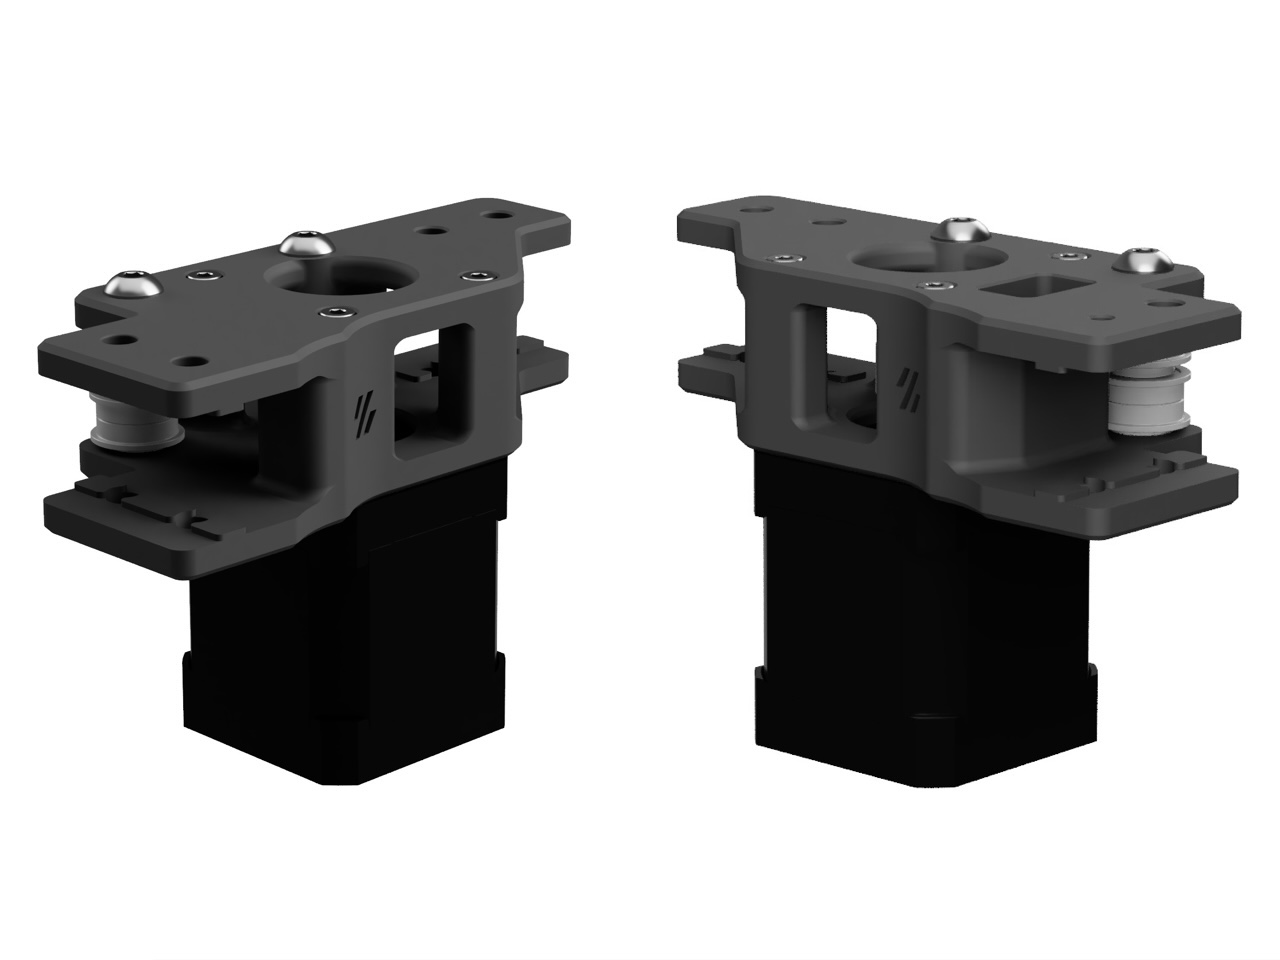
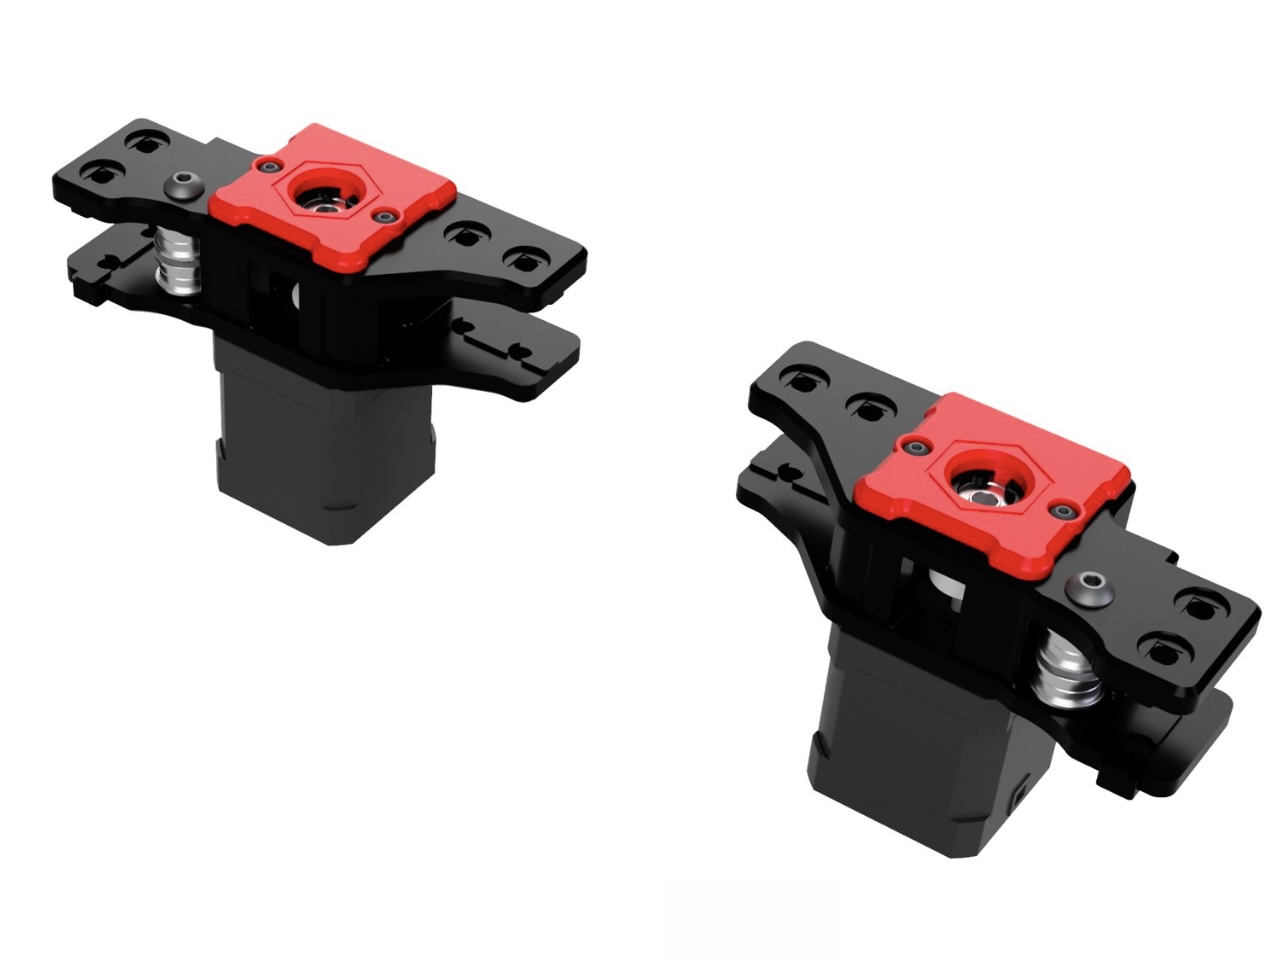
Switch to Trident Gantry

diff --git a/_posts/printer-voron-1.8.md b/_posts/printer-voron-1.8.md
@@ -2,7 +2,7 @@
 title: Voron 1.8
 heading: Building my first Voron printer
 date: 2022-02-17
-lastmod: 2026-06-14T17:59:41.100Z
+lastmod: 2026-06-16T21:25:51.914Z
 author: Mike Thomas
 description: The steps I have taken to print and source parts to assemble a Voron 1.8 3D printer.
 preview: /assets/blog/printer-voron-1.8/voron-hero.jpg
@@ -247,19 +247,26 @@ All printed parts will be printed in eSun ABS+. The Voron team recommends an inf
 
 Some of the gantry parts (specifically the AB Drive Units and Front Idlers) will be replaced with the upgraded versions from the Trident as they should fit the 1.8.
 
-### :white_check_mark: AB Drive Units
+### :wrench: A/B Drive Units
 
-![3D render of the Voron 1.8 AB Drive Units](/assets/blog/printer-voron-1.8/voron-design/ab-drive.jpg 'AB Drive Units')
+![3D render of the Voron Trident r2 A/B Drive Units](/assets/blog/printer-voron-1.8/voron-design/ab-drive.jpg 'A/B Drive Units')
 
-> Image © 2020 [Voron Design](https://www.vorondesign.com)
+> Image © 2026 [Voron Design](https://www.vorondesign.com)
 
-| Item                                                                                                                             | Quantity | Material                      | Size  | Weight | Cost  |      Printed       | Notes                     |
-| -------------------------------------------------------------------------------------------------------------------------------- | -------- | ----------------------------- | ----- | ------ | ----- | :----------------: | ------------------------- |
-| [wire_cover](https://github.com/VoronDesign/Voron-Trident/blob/VTr1/STLs/Gantry/AB_Drive_Units/%5Ba%5D_wire_cover.stl)           | 1        | [eSun ABS+ (Fire Engine Red)] | 1.30m | 3.31g  | £0.06 | :heavy_check_mark: | This is a Trident Part    |
-| [a_drive_frame_lower](https://github.com/VoronDesign/Voron-Trident/blob/VTr1/STLs/Gantry/AB_Drive_Units/a_drive_frame_lower.stl) | 1        | [eSun ABS+ (Black)]           | 8.58m | 21.86g | £0.42 | :heavy_check_mark: | This is a Trident Part    |
-| [a_drive_frame_upper](https://github.com/VoronDesign/Voron-Trident/blob/VTr1/STLs/Gantry/AB_Drive_Units/a_drive_frame_upper.stl) | 1        | [eSun ABS+ (Black)]           | 8.21m | 20.93g | £0.40 | :heavy_check_mark: | This is a Trident r1 Part |
-| [b_drive_frame_lower](https://github.com/VoronDesign/Voron-Trident/blob/VTr1/STLs/Gantry/AB_Drive_Units/b_drive_frame_lower.stl) | 1        | [eSun ABS+ (Black)]           | 7.93m | 20.21g | £0.38 | :heavy_check_mark: | This is a Trident Part    |
-| [b_drive_frame_upper](https://github.com/VoronDesign/Voron-Trident/blob/VTr1/STLs/Gantry/AB_Drive_Units/b_drive_frame_upper.stl) | 1        | [eSun ABS+ (Black)]           | 8.18m | 20.85g | £0.40 | :heavy_check_mark: | This is a Trident r1 Part |
+| Item                                                                                                                               | Quantity | Material                      | Size  | Weight | Cost  |      Printed       | Notes                                                                    |
+| ---------------------------------------------------------------------------------------------------------------------------------- | -------- | ----------------------------- | ----- | ------ | ----- | :----------------: | ------------------------------------------------------------------------ |
+| ~[a_drive_frame_lower](https://github.com/VoronDesign/Voron-Trident/blob/VTr1/STLs/Gantry/AB_Drive_Units/a_drive_frame_lower.stl)~ | ~1~      | [eSun ABS+ (Black)]           | 8.58m | 21.86g | £0.42 | :heavy_check_mark: | This is a Trident Part                                                   |
+| ~[a_drive_frame_upper](https://github.com/VoronDesign/Voron-Trident/blob/VTr1/STLs/Gantry/AB_Drive_Units/a_drive_frame_upper.stl)~ | ~1~      | [eSun ABS+ (Black)]           | 8.21m | 20.93g | £0.40 | :heavy_check_mark: | This is a Trident r1 Part                                                |
+| [a_stepper_lower](https://github.com/VoronDesign/Voron-Trident/blob/main/STLs/Gantry/ba_drive_units/a_stepper_lower.stl)           | 1        | [eSun ABS+ (Black)]           |       |        |       |        :x:         | This is a Trident r2 Part                                                |
+| [a_stepper_upper](https://github.com/VoronDesign/Voron-Trident/blob/main/STLs/Gantry/ba_drive_units/a_stepper_upper.stl)           | 1        | [eSun ABS+ (Black)]           |       |        |       |        :x:         | This is a Trident r2 Part                                                |
+| ~[b_drive_frame_lower](https://github.com/VoronDesign/Voron-Trident/blob/VTr1/STLs/Gantry/AB_Drive_Units/b_drive_frame_lower.stl)~ | ~1~      | [eSun ABS+ (Black)]           | 7.93m | 20.21g | £0.38 | :heavy_check_mark: | This is a Trident Part                                                   |
+| ~[b_drive_frame_upper](https://github.com/VoronDesign/Voron-Trident/blob/VTr1/STLs/Gantry/AB_Drive_Units/b_drive_frame_upper.stl)~ | ~1~      | [eSun ABS+ (Black)]           | 8.18m | 20.85g | £0.40 | :heavy_check_mark: | This is a Trident r1 Part                                                |
+| [b_stepper_lower](https://github.com/VoronDesign/Voron-Trident/blob/main/STLs/Gantry/ba_drive_units/b_stepper_lower.stl)           | 1        | [eSun ABS+ (Black)]           |       |        |       |        :x:         | This is a Trident r2 Part                                                |
+| [b_stepper_upper](https://github.com/VoronDesign/Voron-Trident/blob/main/STLs/Gantry/ba_drive_units/b_stepper_upper.stl)           | 1        | [eSun ABS+ (Black)]           |       |        |       |        :x:         | This is a Trident r2 Part                                                |
+| ~[circlip](https://github.com/VoronDesign/Voron-Trident/blob/main/STLs/Gantry/ba_drive_units/circlip_x2.stl)~                      | ~2~      | [eSun ABS+ (Black)]           |       |        |       |        :x:         | This is a Trident r2 Part, Not required, for Double Shear Shaft Supports |
+| ~[cover_bearing](https://github.com/VoronDesign/Voron-Trident/blob/main/STLs/Gantry/ba_drive_units/%5Ba%5D_cover_bearing_x2.stl)~  | ~2~      | [eSun ABS+ (Fire Engine Red)] |       |        |       |        :x:         | This is a Trident r2 Part, Not required, for Double Shear Shaft Supports |
+| [cover_logo](https://github.com/VoronDesign/Voron-Trident/blob/main/STLs/Gantry/ba_drive_units/%5Ba%5D_cover_logo_x2.stl)          | 2        | [eSun ABS+ (Fire Engine Red)] |       |        |       |        :x:         | This is a Trident r2 Part                                                |
+| ~[wire_cover](https://github.com/VoronDesign/Voron-Trident/blob/VTr1/STLs/Gantry/AB_Drive_Units/%5Ba%5D_wire_cover.stl)~           | ~1~      | [eSun ABS+ (Fire Engine Red)] | 1.30m | 3.31g  | £0.06 | :heavy_check_mark: | This is a Trident Part                                                   |
 
 ![An A Drive Unit printed in ABS with different settings](/assets/blog/printer-voron-1.8/a-drive-abs-tuning.jpg 'A Drive ABS Tuning')
 
@@ -271,32 +278,36 @@ The lower A drive was the first time I have tried to print with ABS. The upper w
 
 ##### Parts Used
 
-| Item                          | Quantity |
-| ----------------------------- | -------- |
-| F695 Bearing                  | 12       |
-| GT2 20T Pulley (5mm ID 6mm W) | 2        |
-| M3 Threaded Insert            | 1        |
-| M3x10 SHCS                    | 1        |
-| M3x30 SHCS                    | 6        |
-| M5 1mm Spacer                 | 12       |
-| M5x30 BHCS                    | 4        |
-| NEMA17 Motor 17HS19-2004S     | 2        |
+| Item                            | Quantity |
+| ------------------------------- | -------- |
+| ~F695 Bearing~                  | ~12~     |
+| ~GT2 20T Pulley (5mm ID 6mm W)~ | ~2~      |
+| ~M3 Threaded Insert~            | ~1~      |
+| ~M3x10 SHCS~                    | ~1~      |
+| ~M3x30 SHCS~                    | ~6~      |
+| ~M5 1mm Spacer~                 | ~12~     |
+| ~M5x30 BHCS~                    | ~4~      |
+| ~NEMA17 Motor 17HS19-2004S~     | ~2~      |
 
 > [!NOTE]
 > I will upgrade these motors to [LDO Speedy Power Motors](https://www.onetwo3d.co.uk/product/ldo-stepper-motor-42sth48-2504ac) for both A and B Drives.
 
-### :white_check_mark: Front Idlers
+### :wrench: Front Idlers
 
-![3D render of the Voron 1.8 Front Idlers](/assets/blog/printer-voron-1.8/voron-design/front-idlers.jpg 'Front Idlers')
+![3D render of the Voron Trident r2 Front Idlers](/assets/blog/printer-voron-1.8/voron-design/front-idlers.jpg 'Front Idlers')
 
-> Image © 2020 [Voron Design](https://www.vorondesign.com)
+> Image © 2026 [Voron Design](https://www.vorondesign.com)
 
-| Item                                                                                                                           | Quantity | Material                      | Size  | Weight | Cost  |      Printed       | Notes                     |
-| ------------------------------------------------------------------------------------------------------------------------------ | -------- | ----------------------------- | ----- | ------ | ----- | :----------------: | ------------------------- |
-| [tensioner_left](https://github.com/VoronDesign/Voron-Trident/blob/VTr1/STLs/Gantry/Front_Idlers/%5Ba%5D_tensioner_left.stl)   | 1        | [eSun ABS+ (Fire Engine Red)] | 2.61m | 6.66g  | £0.13 | :heavy_check_mark: | This is a Trident r1 Part |
-| [tensioner_right](https://github.com/VoronDesign/Voron-Trident/blob/VTr1/STLs/Gantry/Front_Idlers/%5Ba%5D_tensioner_right.stl) | 1        | [eSun ABS+ (Fire Engine Red)] | 2.61m | 6.65g  | £0.13 | :heavy_check_mark: | This is a Trident r1 Part |
-| [front_idler_a](https://github.com/VoronDesign/Voron-Trident/blob/VTr1/STLs/Gantry/Front_Idlers/front_idler_a_x2.stl)          | 2        | [eSun ABS+ (Black)]           | 5.19m | 13.22g | £0.25 | :heavy_check_mark: | This is a Trident r1 Part |
-| [front_idler_b](https://github.com/VoronDesign/Voron-Trident/blob/VTr1/STLs/Gantry/Front_Idlers/front_idler_b_x2.stl)          | 2        | [eSun ABS+ (Black)]           | 3.07m | 7.83g  | £0.15 | :heavy_check_mark: | This is a Trident r1 Part |
+| Item                                                                                                                              | Quantity | Material                      | Size  | Weight | Cost  |      Printed       | Notes                     |
+| --------------------------------------------------------------------------------------------------------------------------------- | -------- | ----------------------------- | ----- | ------ | ----- | :----------------: | ------------------------- |
+| ~[front_idler_a](https://github.com/VoronDesign/Voron-Trident/blob/VTr1/STLs/Gantry/Front_Idlers/front_idler_a_x2.stl)~           | ~2~      | [eSun ABS+ (Black)]           | 5.19m | 13.22g | £0.25 | :heavy_check_mark: | This is a Trident r1 Part |
+| ~[front_idler_b](https://github.com/VoronDesign/Voron-Trident/blob/VTr1/STLs/Gantry/Front_Idlers/front_idler_b_x2.stl)~           | ~2~      | [eSun ABS+ (Black)]           | 3.07m | 7.83g  | £0.15 | :heavy_check_mark: | This is a Trident r1 Part |
+| [idler_carrier_a](https://github.com/VoronDesign/Voron-Trident/blob/main/STLs/Gantry/Front_Idlers/%5Ba%5D_idler_carrier_a_x2.stl) | 2        | [eSun ABS+ (Fire Engine Red)] |       |        |       |        :x:         | This is a Trident r2 Part |
+| [idler_carrier_b](https://github.com/VoronDesign/Voron-Trident/blob/main/STLs/Gantry/Front_Idlers/%5Ba%5D_idler_carrier_b_x2.stl) | 2        | [eSun ABS+ (Fire Engine Red)] |       |        |       |        :x:         | This is a Trident r2 Part |
+| [idler_front](https://github.com/VoronDesign/Voron-Trident/blob/main/STLs/Gantry/Front_Idlers/%5Ba%5D_idler_front_x2.stl)         | 2        | [eSun ABS+ (Fire Engine Red)] |       |        |       |        :x:         | This is a Trident r2 Part |
+| [idler_housing](https://github.com/VoronDesign/Voron-Trident/blob/main/STLs/Gantry/Front_Idlers/idler_housing_x2.stl)             | 2        | [eSun ABS+ (Black)]           |       |        |       |        :x:         | This is a Trident r2 Part |
+| ~[tensioner_left](https://github.com/VoronDesign/Voron-Trident/blob/VTr1/STLs/Gantry/Front_Idlers/%5Ba%5D_tensioner_left.stl)~    | ~1~      | [eSun ABS+ (Fire Engine Red)] | 2.61m | 6.66g  | £0.13 | :heavy_check_mark: | This is a Trident r1 Part |
+| ~[tensioner_right](https://github.com/VoronDesign/Voron-Trident/blob/VTr1/STLs/Gantry/Front_Idlers/%5Ba%5D_tensioner_right.stl)~  | ~1~      | [eSun ABS+ (Fire Engine Red)] | 2.61m | 6.65g  | £0.13 | :heavy_check_mark: | This is a Trident r1 Part |
 
 #### Assembly
 
@@ -306,15 +317,15 @@ The screws on the front of the idlers move the tensioners forwards and backwards
 
 ##### Parts Used
 
-| Item               | Quantity |
-| ------------------ | -------- |
-| F695 Bearing       | 4        |
-| M3 Threaded Insert | 2        |
-| M3 Washer          | 2        |
-| M3x40 SHCS         | 2        |
-| M5 1mm Spacer      | 4        |
-| M5 Hexnut          | 2        |
-| M5x40 SHCS         | 2        |
+| Item                 | Quantity |
+| -------------------- | -------- |
+| ~F695 Bearing~       | ~4~      |
+| ~M3 Threaded Insert~ | ~2~      |
+| ~M3 Washer~          | ~2~      |
+| ~M3x40 SHCS~         | ~2~      |
+| ~M5 1mm Spacer~      | ~4~      |
+| ~M5 Hexnut~          | ~2~      |
+| ~M5x40 SHCS~         | ~2~      |
 
 ### :white_check_mark: Rear Crossbar
 
@@ -531,11 +542,13 @@ I built the Afterburner toolhead but will eventually add the [StealthBurner Main
 
 ## Endstops
 
-### :white_check_mark: Y Endstop
+### :wrench: Y Endstop
 
-| Item                                                                                                                       | Quantity | Material                      | Size  | Weight | Cost  |      Printed       | Notes |
-| -------------------------------------------------------------------------------------------------------------------------- | -------- | ----------------------------- | ----- | ------ | ----- | :----------------: | ----- |
-| [y_endstop_housing](https://github.com/VoronDesign/Voron-1/blob/Voron1.8/STLs/Gantry/AB_Drive_Units/y_endstop_housing.stl) | 1        | [eSun ABS+ (Fire Engine Red)] | 1.47m | 3.74g  | £0.07 | :heavy_check_mark: |
+| Item                                                                                                                         | Quantity | Material                      | Size  | Weight | Cost  |      Printed       | Notes                                                             |
+| ---------------------------------------------------------------------------------------------------------------------------- | -------- | ----------------------------- | ----- | ------ | ----- | :----------------: | ----------------------------------------------------------------- |
+| ~[y_bumper](https://github.com/VoronDesign/Voron-Trident/blob/main/STLs/Gantry/ba_drive_units/%5Ba%5D_y_bumper.stl)~         | ~1~      | [eSun ABS+ (Fire Engine Red)] |       |        |       |        :x:         | This is a Trident r2 Part, Not required, only for X/Y Endstop PCB |
+| ~[y_endstop_housing](https://github.com/VoronDesign/Voron-1/blob/Voron1.8/STLs/Gantry/AB_Drive_Units/y_endstop_housing.stl)~ | ~1~      | [eSun ABS+ (Fire Engine Red)] | 1.47m | 3.74g  | £0.07 | :heavy_check_mark: | Replaced by `y_endstop_pod`                                       |
+| [y_endstop_pod](https://github.com/VoronDesign/Voron-Trident/blob/main/STLs/Gantry/ba_drive_units/%5Ba%5D_y_endstop_pod.stl) | 1        | [eSun ABS+ (Fire Engine Red)] |       |        |       |        :x:         | This is a Trident r2 Part                                         |
 
 #### Assembly
 
@@ -545,12 +558,12 @@ As I am using the Trident A/B Drive Units, I have had to move the Y Endstop to t
 
 ##### Parts Used
 
-| Item                         | Quantity |
-| ---------------------------- | -------- |
-| 24AWG PTFE Cable (Black)     | 500mm    |
-| M3x16 SHCS                   | 1        |
-| M5x16 BHCS                   | 1        |
-| SPDT KW10 Limit Micro Switch | 1        |
+| Item                           | Quantity |
+| ------------------------------ | -------- |
+| ~24AWG PTFE Cable (Black)~     | ~500mm~  |
+| ~M3x16 SHCS~                   | ~1~      |
+| ~M5x16 BHCS~                   | ~1~      |
+| ~SPDT KW10 Limit Micro Switch~ | ~1~      |
 
 ### :negative_squared_cross_mark: Z Endstop
 